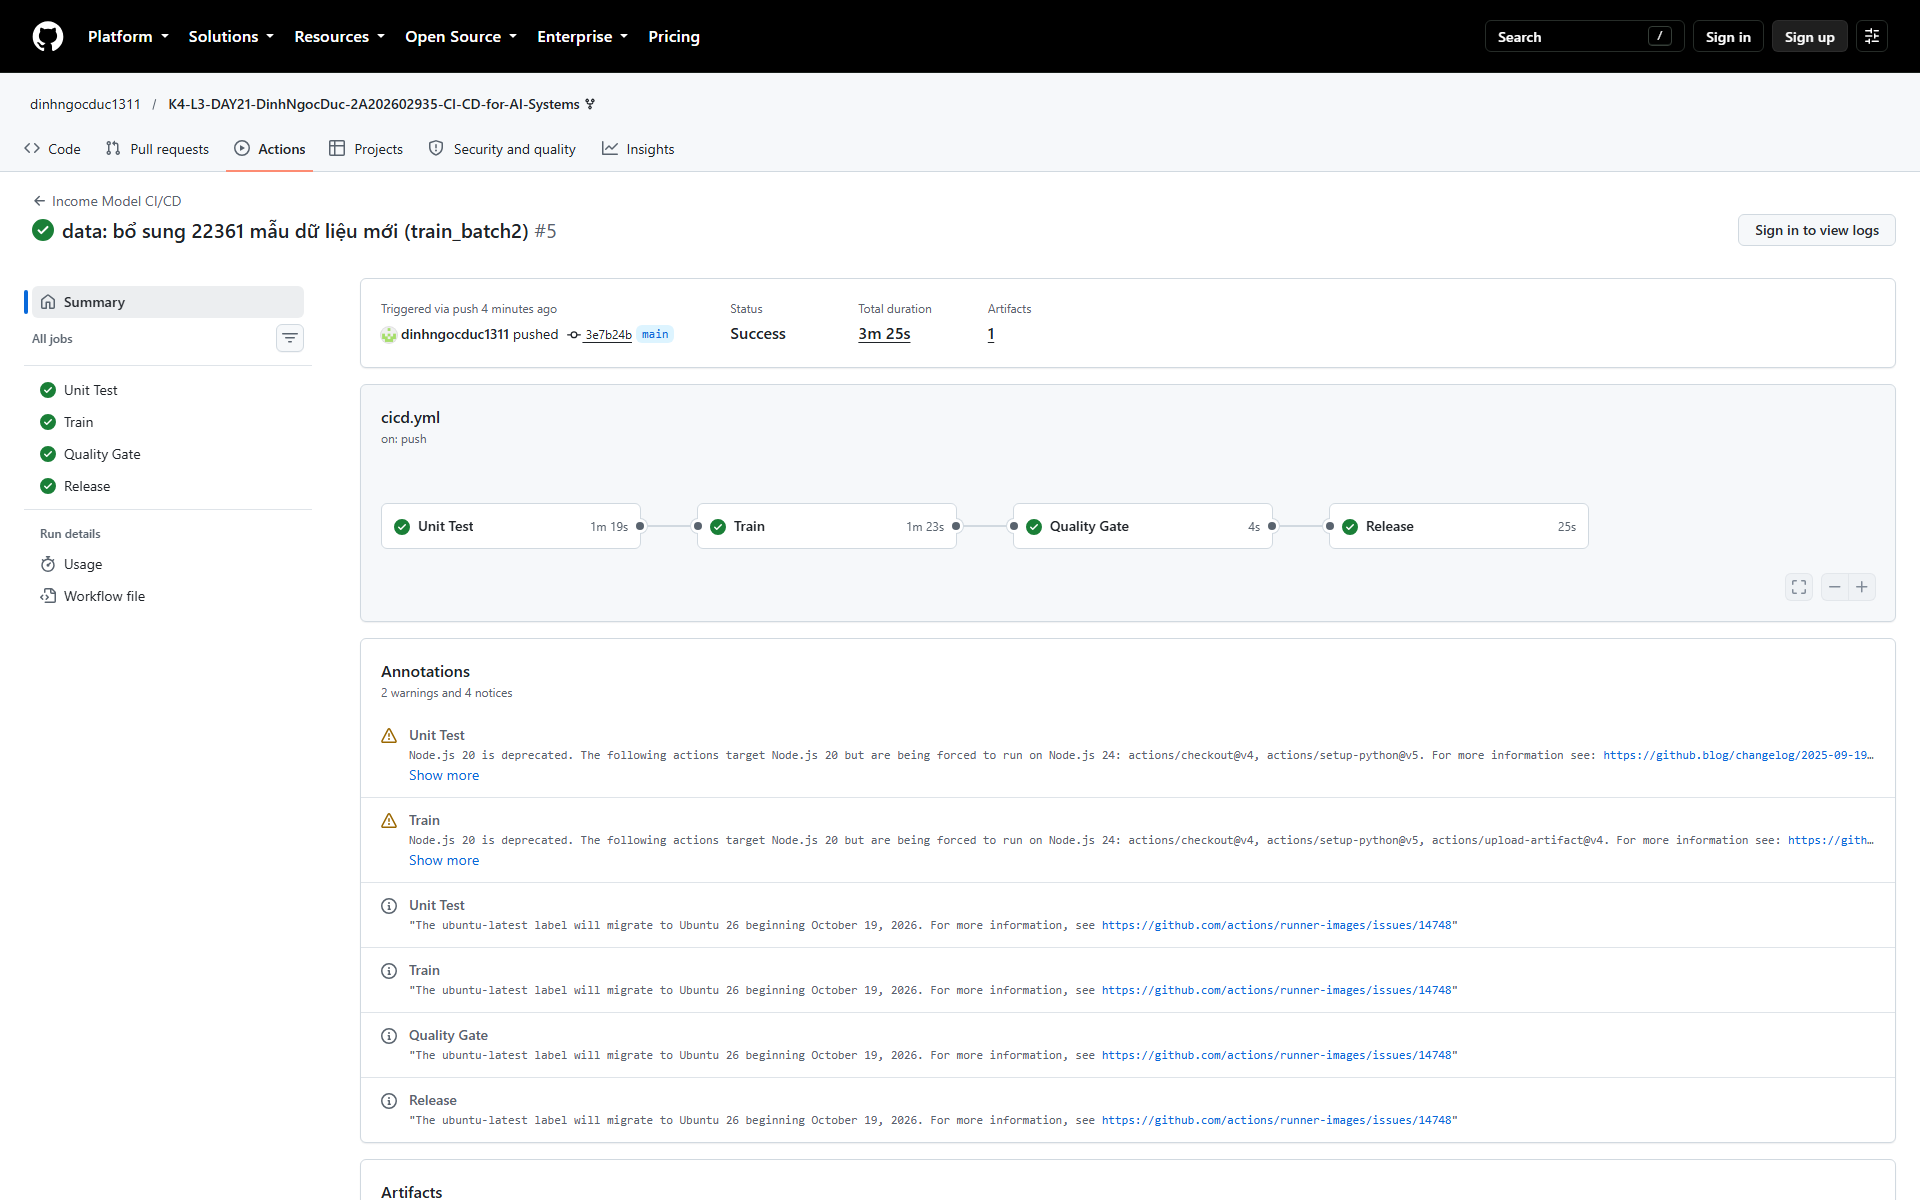
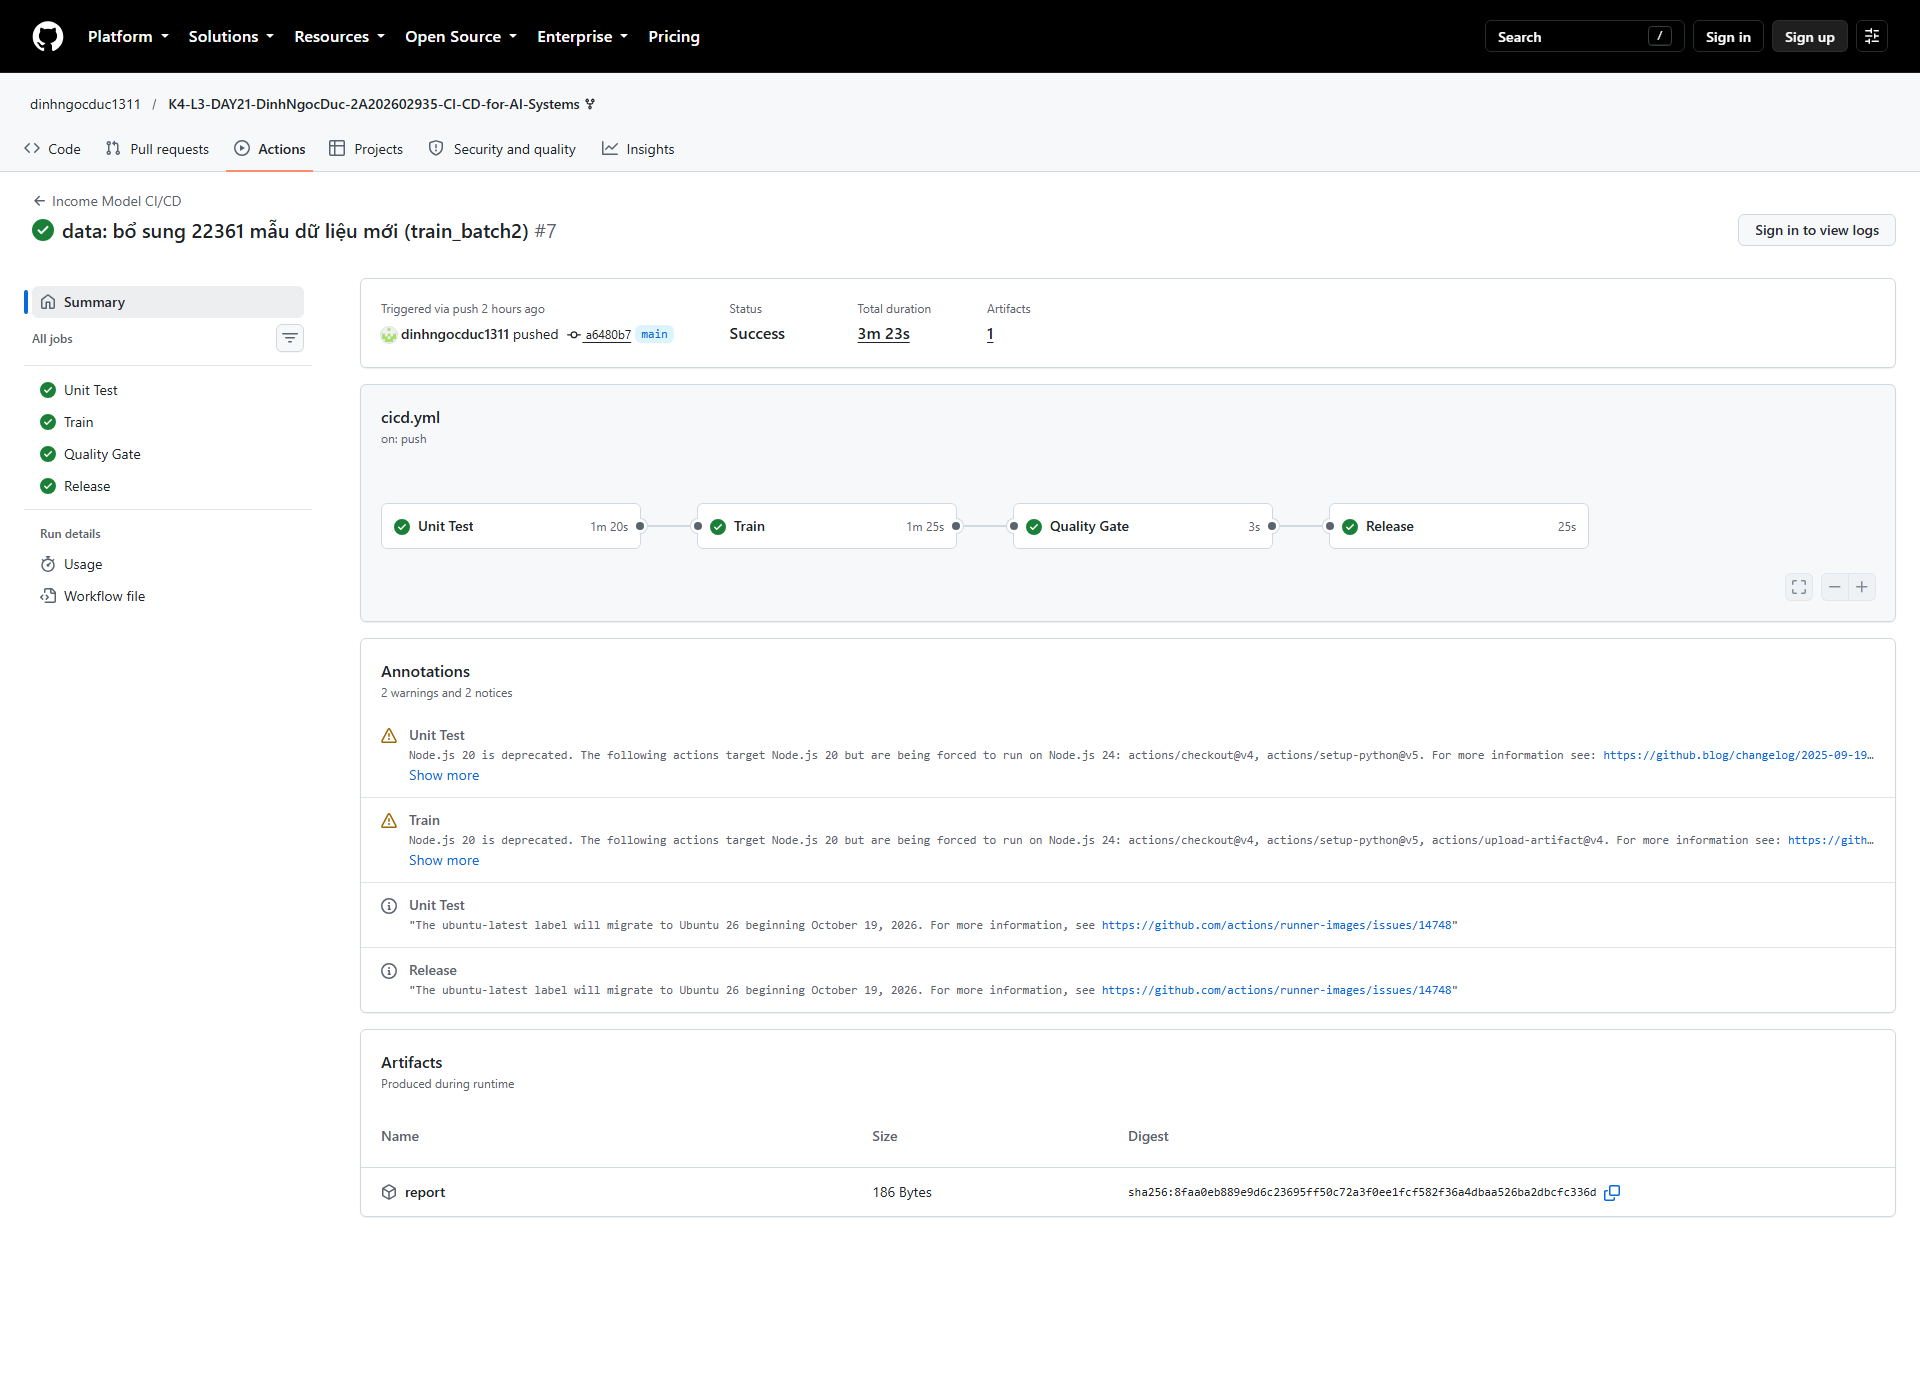
feat: complete model quality bonuses and refresh evidence

diff --git a/src/train.py b/src/train.py
@@ -6,12 +6,20 @@ import json
 import joblib
 import os
 from sklearn.ensemble import GradientBoostingClassifier
-from sklearn.metrics import accuracy_score, f1_score
+from sklearn.metrics import (
+    accuracy_score,
+    confusion_matrix,
+    f1_score,
+    precision_recall_fscore_support,
+)
 
 # Nguong chat luong cua lab nay la f1_score, KHONG phai accuracy.
 # Ly do: bo du lieu Adult co ty le lop 75/25. Mot mo hinh doan bua
 # "thu nhap thap" cho moi mau da dat accuracy 0.75 ma khong hoc duoc gi.
 F1_THRESHOLD = 0.65
+REFERENCE_POSITIVE_RATIO = 0.248
+DRIFT_THRESHOLD = 0.05
+DECISION_THRESHOLDS = [round(0.1 + step * 0.05, 2) for step in range(17)]
 
 
 def train(
@@ -42,22 +50,71 @@ def train(
     with mlflow.start_run():
         mlflow.log_params(params)
 
+        positive_ratio = float(y_train.mean())
+        drift_warning = abs(positive_ratio - REFERENCE_POSITIVE_RATIO) > DRIFT_THRESHOLD
+        if drift_warning:
+            print(
+                "WARNING: positive class ratio "
+                f"{positive_ratio:.4f} differs from {REFERENCE_POSITIVE_RATIO:.4f} "
+                f"by more than {DRIFT_THRESHOLD:.2f}."
+            )
+
         model = GradientBoostingClassifier(**params, random_state=42)
         model.fit(X_train, y_train)
 
-        preds = model.predict(X_eval)
-        f1 = float(f1_score(y_eval, preds))
+        probabilities = model.predict_proba(X_eval)[:, 1]
+        default_preds = (probabilities >= 0.5).astype(int)
+        default_f1 = float(f1_score(y_eval, default_preds))
+        threshold_scores = [
+            (threshold, float(f1_score(y_eval, probabilities >= threshold)))
+            for threshold in DECISION_THRESHOLDS
+        ]
+        best_threshold, f1 = max(threshold_scores, key=lambda item: item[1])
+        preds = (probabilities >= best_threshold).astype(int)
         acc = float(accuracy_score(y_eval, preds))
+        matrix = confusion_matrix(y_eval, preds, labels=[0, 1])
+        precision, recall, _, support = precision_recall_fscore_support(
+            y_eval, preds, labels=[0, 1], zero_division=0
+        )
 
         mlflow.log_metric("f1_score", f1)
         mlflow.log_metric("accuracy", acc)
+        mlflow.log_metric("f1_score_default_0_5", default_f1)
+        mlflow.log_metric("best_threshold", best_threshold)
+        mlflow.log_metric("positive_ratio", positive_ratio)
         mlflow.sklearn.log_model(model, "model")
 
-        print(f"F1: {f1:.4f} | Accuracy: {acc:.4f}")
-
+        print(
+            f"F1 default: {default_f1:.4f} | F1 optimized: {f1:.4f} | "
+            f"Threshold: {best_threshold:.2f} | Accuracy: {acc:.4f}"
+        )
         os.makedirs("outputs", exist_ok=True)
         with open("outputs/report.json", "w") as f:
-            json.dump({"f1_score": f1, "accuracy": acc}, f)
+            json.dump(
+                {
+                    "f1_score": f1,
+                    "accuracy": acc,
+                    "f1_score_default_0_5": default_f1,
+                    "best_threshold": best_threshold,
+                    "positive_ratio": positive_ratio,
+                    "data_drift_warning": drift_warning,
+                },
+                f,
+            )
+
+        with open("outputs/detail.txt", "w") as f:
+            f.write("Confusion matrix (rows=true, columns=predicted)\n")
+            f.write(f"{matrix.tolist()}\n\n")
+            for label in (0, 1):
+                f.write(
+                    f"class={label} precision={precision[label]:.4f} "
+                    f"recall={recall[label]:.4f} support={support[label]}\n"
+                )
+            f.write(
+                "\nFalse negatives are costlier for high-income screening because "
+                "eligible positive cases are missed; false positives can be reviewed.\n"
+            )
+        mlflow.log_artifact("outputs/detail.txt")
 
         os.makedirs("models", exist_ok=True)
         joblib.dump(model, "models/model.joblib")

diff --git a/tests/test_train.py b/tests/test_train.py
@@ -56,8 +56,16 @@ def test_report_file_created(tmp_path, monkeypatch):
     assert os.path.exists("outputs/report.json")
     with open("outputs/report.json") as f:
         report = json.load(f)
-    assert "f1_score" in report
-    assert "accuracy" in report
+    assert {
+        "f1_score",
+        "accuracy",
+        "f1_score_default_0_5",
+        "best_threshold",
+        "positive_ratio",
+        "data_drift_warning",
+    } <= report.keys()
+    assert 0.1 <= report["best_threshold"] <= 0.9
+    assert os.path.exists("outputs/detail.txt")
 
 
 def test_model_file_created(tmp_path, monkeypatch):

diff --git a/nop-bai/bao-cao.md b/nop-bai/bao-cao.md
@@ -17,28 +17,24 @@
 | 2 | 50 | 0.05 | 2 | 0.6051 | 0.8460 |
 | 3 | 200 | 0.1 | 5 | **0.7149** | 0.8740 |
 
-Chọn `n_estimators=200`, `learning_rate=0.1`, `max_depth=5` vì lần 3 có F1 cao
-nhất và vượt Quality Gate `0.65`. Lần 1 có accuracy cao nhất nhưng F1 thấp hơn. Lần
-2 có learning rate thấp, ít cây và cây nông nên chưa bù đủ sai số.
+Chọn `n_estimators=200`, `learning_rate=0.1`, `max_depth=5`: F1 cao nhất và vượt
+gate `0.65`. Lần 1 nhỉnh hơn về accuracy nhưng kém F1; lần 2 có ít cây, tốc độ học
+thấp và cây nông nên chưa bù đủ sai số.
 
 ## 2. Vì sao Quality Gate dùng F1
 
-Chỉ 24,77% dữ liệu ban đầu thuộc lớp thu nhập cao. Mô hình luôn dự đoán thu nhập
-thấp vẫn đạt khoảng 75,23% accuracy nhưng không nhận diện được mẫu dương nào. F1 kết
-hợp precision và recall nên phản ánh cả dự đoán dương sai lẫn mẫu dương bị bỏ sót.
-Pipeline dùng `f1_score(y_eval, preds)` cho `target=1`; không dùng weighted average vì
-lớp đa số sẽ kéo điểm lên, và không dùng macro average vì mục tiêu là đánh giá trực
-tiếp lớp thiểu số.
+Lớp thu nhập cao chỉ chiếm 24,77%; đoán toàn lớp thấp vẫn đạt 75,23% accuracy nhưng
+bỏ sót mọi mẫu dương. F1 kết hợp precision và recall nên phản ánh cả gán nhầm lẫn bỏ
+sót. Pipeline dùng `f1_score(y_eval, preds)` riêng cho `target=1`, không dùng macro hay
+weighted average vì lớp đa số có thể che lấp hiệu quả trên lớp thiểu số.
 
 ## 3. Khó khăn và cách giải quyết
 
 | Khó khăn | Nguyên nhân | Cách giải quyết |
 |---|---|---|
-| MLflow lỗi metadata khi test | Test dùng chung tracking state cục bộ | Dùng SQLite và `tmp_path` riêng cho từng test |
 | GitHub OIDC bị AWS từ chối | Trust policy chưa khớp claim repository/branch | Khóa `aud`, `sub` đúng repo và nhánh `main` |
 | SSH deploy cần mở cổng 22 | IP GitHub runner thay đổi | Chỉ mở `/32` của runner và luôn thu hồi bằng `if: always()` |
 | DVC/CI cần AWS credential | Không được lưu access key dài hạn | Dùng OIDC cho runner và instance role cho EC2 |
-| Push không kích hoạt Actions trên fork | Trạng thái automation của fork chưa được khởi tạo đúng | Reset Actions, bật lại workflow và xác nhận run #5 có event `push` |
 
 ## 4. So sánh Bước 2 và Bước 3
 
@@ -47,7 +43,14 @@ tiếp lớp thiểu số.
 | `f1_score` | 0.7149321267 | 0.7354260090 | +0.0204938823 |
 | `accuracy` | 0.8740 | 0.8820 | +0.0080 |
 
-Sau khi ghép batch 2, F1 tăng khoảng 0,0205 và accuracy tăng 0,0080. Mức tăng nhỏ vì
-hai batch lấy từ cùng nguồn và có phân phối tương tự. Giá trị chính của Bước 3 là xác
-minh dữ liệu được phiên bản hóa bằng DVC, huấn luyện trên GitHub Actions, vượt Quality
-Gate, tải model lên S3 và cập nhật API trên EC2 theo cùng một pipeline tái lập được.
+F1 tăng 0,0205 và accuracy tăng 0,0080. Biên tăng nhỏ vì hai batch cùng nguồn và
+phân phối tương tự. Bước 3 xác nhận chuỗi DVC → GitHub Actions → Quality Gate → S3 →
+EC2 chạy tự động, tái lập được từ một commit dữ liệu.
+
+## 5. Phần Bonus đã thực hiện
+
+- [ ] Bonus 1 — Workflow đã hỗ trợ DagsHub; còn thiếu secret `DAGSHUB_USER_TOKEN` và run từ xa.
+- [x] Bonus 2 — Quét 17 ngưỡng 0,10–0,90; F1 tăng từ 0,7354 lên 0,7537 tại ngưỡng 0,30.
+- [x] Bonus 3 — `detail.txt` chứa matrix, precision/recall từng lớp; ưu tiên giảm false negative thu nhập cao.
+- [x] Bonus 4 — Gate so F1 mới/cũ từ S3; chỉ publish khi `new_f1 >= current_f1`.
+- [x] Bonus 5 — Trước train, tỷ lệ dương 0,2478 lệch dưới 5 điểm %, nên không cảnh báo.

diff --git a/nop-bai/README.md b/nop-bai/README.md
@@ -21,7 +21,7 @@ nop-bai/
 - [x] Đủ năm tệp ảnh đúng tên; mỗi ảnh nhỏ hơn 1 MB.
 - [x] `bao-cao.md` có đủ bốn mục và không còn placeholder.
 - [x] Báo cáo dùng số liệu thực tế của Bước 1, 2 và 3.
-- [x] `03-actions-buoc-3.png` là run #5, event **push**, đúng commit dữ liệu và bốn jobs xanh.
+- [x] `03-actions-buoc-3.png` là run #7, event **push**, commit `a6480b7` và bốn jobs xanh.
 - [x] Commit và push toàn bộ thay đổi cuối cùng; `vlearn.md` được giữ cục bộ và exclude khỏi Git.
 - [x] Đã mở run bằng Chrome headless không đăng nhập, xác nhận repository và ảnh truy cập công khai.
 - [ ] Dán URL repository vào bài nộp trên <https://vlearn.dev>.
@@ -36,6 +36,14 @@ nop-bai/
 | `04-curl-api.png` | FastAPI trên EC2 trả kết quả | 12 |
 | `05-cloud-storage.png` | DVC objects và model artifact trên S3 | 12 |
 | `bao-cao.md` | Lựa chọn tham số, F1 và phân tích kết quả | 8 |
+
+## Trạng thái Bonus
+
+- [ ] Bonus 1: workflow đã sẵn sàng cho DagsHub; cần thêm `DAGSHUB_USER_TOKEN` để tạo run từ xa.
+- [x] Bonus 2: quét threshold 0,10–0,90 và ghi F1/ngưỡng tối ưu vào report + MLflow.
+- [x] Bonus 3: tạo `detail.txt` với confusion matrix, precision và recall từng lớp.
+- [x] Bonus 4: so F1 với report hiện hành trên S3 trước khi cho phép release.
+- [x] Bonus 5: kiểm tra tỷ lệ lớp dương trước train và cảnh báo khi lệch quá 5 điểm %.
 
 ## Quy ước bằng chứng
 

diff --git a/nop-bai/anh-chup-man-hinh/README.md b/nop-bai/anh-chup-man-hinh/README.md
@@ -34,8 +34,8 @@ Chụp run do commit cập nhật `data/train_batch1.csv.dvc` tự kích hoạt.
 - cả bốn jobs đều xanh;
 - URL repository.
 
-> Ảnh hiện tại là run #5, event `push`, commit `3e7b24b`; cả bốn jobs đều xanh và
-> đáp ứng tiêu chí tự động hóa.
+> Ảnh hiện tại là run #7 (ID `37611571848`), event `push`, commit `a6480b7`; cả
+> bốn jobs đều xanh và đáp ứng tiêu chí tự động hóa.
 
 Tham chiếu: [Bước 3](../../tasks/buoc-3.md).
 
